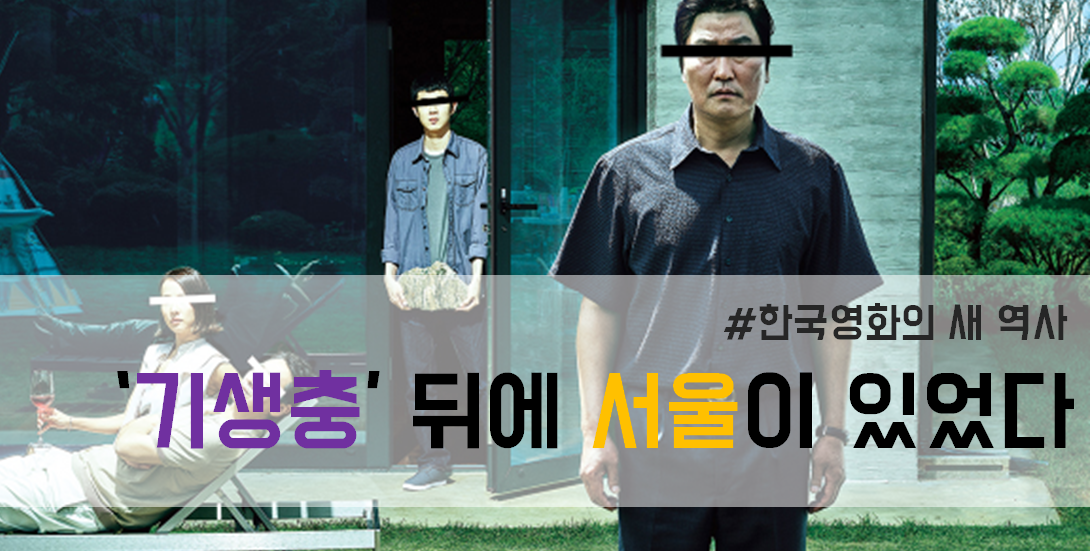
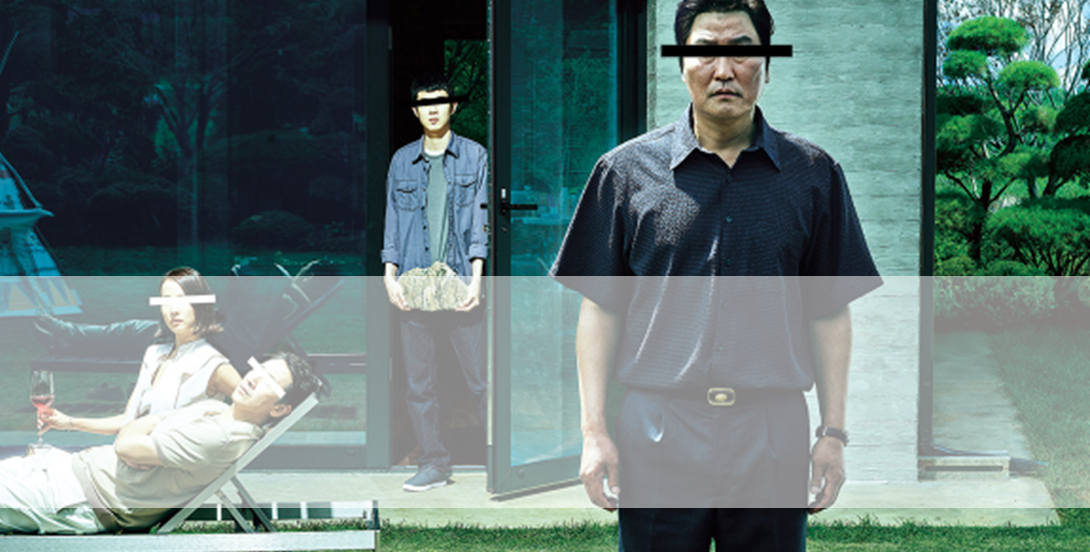
날씨, 번역 API 연동

Changed region(s): [[0.0936, 0.6788, 0.7486, 0.833], [0.7798, 0.6788, 0.9982, 0.833], [0.655, 0.5554, 0.9982, 0.6171]]

diff --git a/dasoni/dasoni/templates/index.html b/dasoni/dasoni/templates/index.html
@@ -281,32 +281,37 @@
   <div class="carousel-inner">
     <div class="carousel-item active">
         <img src="{% static "img/mainc1.png" %}" class="d-block w-100" >
-        <div class="carousel-caption"> 
-        <h3>What we Do</h3> 
+        <div class="carousel-caption caro"style="bottom: 3px; font-weight: 1000; color: black;">
+        <h6 class="text-right"># 한국영화의 새역사 &nbsp;&nbsp;</h6>
+        <h4><span style="color:purple;">'기생충'</span>뒤에 <span style="color:#ff9900;">서울</span>이 있었다.</h4>
         </div>
     </div>
     <div class="carousel-item">
         <img src="{% static "img/mainc1.png" %}" class="d-block w-100" >
-        <div class="carousel-caption"> 
-        <h3>What we Do</h3> 
+        <div class="carousel-caption caro"style="bottom: 3px; font-weight: 1000; color: black;">
+        <h6 class="text-right"># 한국영화의 새역사 &nbsp;&nbsp;</h6>
+        <h4><span style="color:purple;">'기생충'</span>뒤에 <span style="color:#ff9900;">서울</span>이 있었다.</h4>
         </div>
     </div>
     <div class="carousel-item">
       <img src="{% static "img/mainc1.png" %}" class="d-block w-100" >
-      <div class="carousel-caption"> 
-        <h3>What we Do</h3> 
+        <div class="carousel-caption caro"style="bottom: 3px; font-weight: 1000; color: black;">
+        <h6 class="text-right"># 한국영화의 새역사 &nbsp;&nbsp;</h6>
+        <h4><span style="color:purple;">'기생충'</span>뒤에 <span style="color:#ff9900;">서울</span>이 있었다.</h4>
         </div>
     </div>
   <div class="carousel-item">
       <img src="{% static "img/mainc1.png" %}" class="d-block w-100" >
-      <div class="carousel-caption"> 
-        <h3>What we Do</h3> 
+        <div class="carousel-caption caro"style="bottom: 3px; font-weight: 1000; color: black;">
+        <h6 class="text-right"># 한국영화의 새역사 &nbsp;&nbsp;</h6>
+        <h4><span style="color:purple;">'기생충'</span>뒤에 <span style="color:#ff9900;">서울</span>이 있었다.</h4>
         </div>
     </div>
   <div class="carousel-item">
       <img src="{% static "img/mainc1.png" %}" class="d-block w-100" >
-      <div class="carousel-caption"> 
-        <h3>What we Do</h3> 
+        <div class="carousel-caption caro"style="bottom: 3px; font-weight: 1000; color: black;">
+        <h6 class="text-right"># 한국영화의 새역사 &nbsp;&nbsp;</h6>
+        <h4><span style="color:purple;">'기생충'</span>뒤에 <span style="color:#ff9900;">서울</span>이 있었다.</h4>
         </div>
     </div>
   <a class="carousel-control-prev" href="#carouselExampleIndicators" role="button" data-slide="prev">
@@ -319,38 +324,67 @@
   </a>
 </div>
 <!--20200803 희정 캐러셀 끝-->
+<!--20200810 날씨, 번역 기능 시작-->
+<div class="weather">
+    <div class="row text-center weatherrow">
+    <div class="col" style="padding-left: 0px;">[날씨]</div>
+    <div class="col">[기온별 옷차림]</div>
+    <div class="col" style="padding-right: 0px;">[번역]</div>
+    </div>
+    <div class="mainweather text-center">
+    <div><img src="{% static "img/맑음.png" %}" width="50%">
+    <br>27도 맑음
+    </div>
+    <div><img src="{% static "img/나시티.png" %}" width="50%">
+    <br>나시티
+    </div>
+    <div><img src="{% static "img/반팔.png" %}" width="50%">
+    <br>반팔
+    </div>
+    <div><img src="{% static "img/반바지.png" %}" width="50%">
+    <br>반바지
+    </div>
+    <div><img src="{% static "img/원피스.png" %}" width="50%">
+    <br>원피스
+    </div>
+    <div><img src="{% static "img/trans.png" %}" width="50%"></div>
+    </div>
+</div>
+<!--20200810 날씨, 번역 기능 끝-->
+
+
 <div class="mainicon text-center">
-<div onClick="location.href ='http://URL주소'"><img src="{% static "img/mainlogo1.png" %}" width="50%">
+<div onClick="location.href ='http://URL주소'"><img src="{% static "img/mainlogo1.png" %}" width="45%">
 <p class="mainicontext">가수</p>
 </div>
-<div onClick="location.href ='http://URL주소'"><img src="{% static "img/mainlogo2.png" %}" width="50%">
+<div onClick="location.href ='http://URL주소'"><img src="{% static "img/mainlogo2.png" %}" width="45%">
 <p class="mainicontext">드라마/영화</p>
 </div>
-<div onClick="location.href ='http://URL주소'"><img src="{% static "img/mainlogo3.png" %}" width="50%">
+<div onClick="location.href ='http://URL주소'"><img src="{% static "img/mainlogo3.png" %}" width="45%">
 <p class="mainicontext">예능</p>
 </div>
 </div>
 
 <div class="mainicon text-center">
-<div onClick="location.href ='http://URL주소'"><img src="{% static "img/mainlogo4.png" %}" width="50%">
+<div onClick="location.href ='http://URL주소'"><img src="{% static "img/mainlogo4.png" %}" width="45%">
 <p class="mainicontext">투어 예약</p>
 </div>
-<div onClick="location.href ='{% url 'tothers:tourtip' %}'"><img src="{% static "img/mainlogo5.png" %}" width="50%">
+<div onClick="location.href ='{% url 'tothers:tourtip' %}'"><img src="{% static "img/mainlogo5.png" %}" width="45%">
 <p class="mainicontext">투어 팁</p>
 </div>
-<div onClick="location.href ='{% url 'tothers:goods' %}'"><img src="{% static "img/mainlogo6.png" %}" width="50%">
+<div onClick="location.href ='{% url 'tothers:goods' %}'"><img src="{% static "img/mainlogo6.png" %}" width="45%">
 <p class="mainicontext">굿즈</p>
 </div>
 </div>
 
 <div class="mainicon text-center">
-<div onClick="location.href ='http://URL주소'"><img src="{% static "img/mainlogo7.png" %}" width="50%">
+<div onClick="location.href ='http://URL주소'"><img src="{% static "img/mainlogo7.png" %}" width="45%">
 <p class="mainicontext">회사 소개</p>
 </div>
-<div onClick="location.href ='http://URL주소'"><img src="{% static "img/mainlogo8.png" %}" width="50%">
+<div onClick="location.href ='http://URL주소'"><img src="{% static "img/mainlogo8.png" %}" width="45%">
 <p class="mainicontext">스팟 랭킹</p>
 </div>
-<div onClick="location.href ='http://URL주소'"><img src="{% static "img/mainlogo9.png" %}" width="50%">
+<div onClick="location.href ='http://URL주소'"><img src="{% static "img/mainlogo9.png" %}" width="45%">
 <p class="mainicontext">여행 공유</p>
 </div>
 </div>

diff --git a/dasoni/tothers/templates/tothers/stamp.html b/dasoni/tothers/templates/tothers/stamp.html
@@ -110,26 +110,17 @@
                 <div class="col"><img src="{% static "img/방탄소년단2.jpg" %}" width="100%" height="100%" class="rounded-circle"></div>
                 <div class="col"><img src="{% static "img/방탄소년단3.jpg" %}" width="100%" height="100%" class="rounded-circle"></div>
                 <div class="col"><img src="{% static "img/방탄소년단4.jpg" %}" width="100%"  height="100%" class="rounded-circle"></div>
-                <div class="col"><img src="{% static "img/stampnull.png" %}" width="100%" height="100%" class="rounded-circle"></div>
+                <div class="col"><img src="{% static "img/무한도전2.jpg" %}" width="100%" height="100%" class="rounded-circle"></div>
                
             </div>    
             </div>
             <div class="container text-center">
             <div class="row row-cols-4">
-                <div class="col coltext"><span class="stamp2text">BTS</span></div>
-                <div class="col coltext"><span class="stamp2text">BTS</span></div>
-                <div class="col coltext"><span class="stamp2text">BTS</span></div>
-                <div class="col coltext"><span class="stamp2text">무한도전</span></div>
+                <div class="col coltext"><span class="stamp2text">BTS 양주일영역</span></div>
+                <div class="col coltext"><span class="stamp2text">BTS 춘천강촌역</span></div>
+                <div class="col coltext"><span class="stamp2text">BTS 향호해변</span></div>
+                <div class="col coltext"><span class="stamp2text">무한도전 통인시장</span></div>
                 
-            </div>    
-            </div>
-            <div class="container text-center">
-            <div class="row row-cols-4">
-                <div class="col coltext"><span class="stamp2text">양주일영역</span></div>
-                <div class="col coltext"><span class="stamp2text">춘천강촌역</span></div>
-                <div class="col coltext"><span class="stamp2text">향호해변</span></div>
-                <div class="col coltext"><span class="stamp2text">통인시장</span></div>
-  
             </div>    
             </div>
             <div class="container text-center">
@@ -141,12 +132,13 @@
   
             </div>    
             </div>
+            
 
             <div class="container text-center">
             <div class="row row-cols-4">
-                <div class="col"><img src="{% static "img/방탄소년단.jpg" %}" width="100%" height="100%" class="rounded-circle"></div>
-                <div class="col"><img src="{% static "img/stampnull.png" %}" width="100%" height="100%" class="rounded-circle"></div>
-                <div class="col"><img src="{% static "img/stampnull.png" %}" width="100%" height="100%" class="rounded-circle"></div>
+                <div class="col"><img src="{% static "img/무한도전3.jpg" %}" width="100%" height="100%" class="rounded-circle"></div>
+                <div class="col"><img src="{% static "img/무한도전4.jpg" %}" width="100%" height="100%" class="rounded-circle"></div>
+                <div class="col"><img src="{% static "img/경복궁1.jpg" %}" width="100%" height="100%" class="rounded-circle"></div>
                 <div class="col"><img src="{% static "img/stampnull.png" %}" width="100%" height="100%" class="rounded-circle"></div>
                
             </div>    
@@ -155,7 +147,7 @@
             <div class="row row-cols-4">
                 <div class="col coltext"><span class="stamp2text">무한도전 덕수궁</span></div>
                 <div class="col coltext"><span class="stamp2text">무한도전 한옥마을</span></div>
-                <div class="col coltext"><span class="stamp2text"></span></div>
+                <div class="col coltext"><span class="stamp2text">궁투어 경복궁</span></div>
                 <div class="col coltext"><span class="stamp2text"></span></div>
                 
             </div>    
@@ -164,7 +156,7 @@
             <div class="row row-cols-4">
                 <div class="col coltext"><span class="stamp2text">20.07.08</span></div>
                 <div class="col coltext"><span class="stamp2text">20.07.08</span></div>
-                <div class="col coltext"><span class="stamp2text"></span></div>
+                <div class="col coltext"><span class="stamp2text">20.07.09</span></div>
                 <div class="col coltext"><span class="stamp2text"></span></div>
   
             </div>    

diff --git a/dasoni/dasoni/static/css/main.css b/dasoni/dasoni/static/css/main.css
@@ -3,15 +3,18 @@
 @font-face { font-family: 'MapoPeacefull'; src: url('https://cdn.jsdelivr.net/gh/projectnoonnu/noonfonts_2001@1.1/MapoPeacefullA.woff') format('woff'); font-weight: normal; font-style: normal; }    
 
 body{
-    font-family: 'MapoPeacefull'; 
+    font-family: 'MapoPeacefull';
+     
 }
 .carousel-content { 
 position: absolute; 
-bottom: 10%;  
+bottom: 10%;
 left: 5%;  
-z-index: 20;  
-color: white;  
-text-shadow: 0 1px 2px rgba(0,0,0,.6); 
+z-index: 10;  
+color: black;
+font-weight: 900;
+text-shadow: 0 1px 2px rgba(0,0,0,.6);
+
 }
 
 .footer {
@@ -26,8 +29,8 @@ width:20%
 .mainicon{
 display:flex;
 flex-direction:row;
-padding-top: 5%;
-padding-bottom:5%;
+padding-top: 3%;
+padding-bottom:3%;
 padding-left:10%;
 padding-right:10%;
 }
@@ -38,7 +41,7 @@ width:33.33%
 
 .mainicontext{
 padding-top:5%;
-font-size: 125%;
+font-size: 105%;
 font-weight: bold;
 }
 
@@ -102,7 +105,7 @@ font-weight: bold;
 
 }
 .stamp1text{
-    font-size: 0.8rem;
+    font-size: 0.75rem;
     font-weight: bold;
 }
 }
@@ -128,13 +131,49 @@ font-weight: bold;
 
 }
 .stamp2text{
-    font-size: 0.65rem;
+    font-size: 0.6rem;
     font-weight: bold;
 }
 
 .coltext{
     padding-left: 0px;
     padding-right: 0px; 
+}
+@font-face {
+    font-family: 'ImcreSoojin';
+    src: url('https://cdn.jsdelivr.net/gh/projectnoonnu/noonfonts_20-04@2.3/ImcreSoojin.woff') format('woff');
+    font-weight: normal;
+    font-style: normal;
+}
+.caro{    
+    font-family: 'ImcreSoojin';
+}
+
+.mainweather{
+    display:flex;
+    flex-direction:row;   
+    padding-left:3%;
+    font-size: 0.7rem;
+    
+}
+
+.mainweather div{
+    width:16%
+}
+
+.weatherrow{
+    padding-bottom: 1%;
+    font-family: 'ImcreSoojin';
+    font-size: 0.9rem;
+    font-family: 'MapoPeacefull';
+}
+
+.weather{
+    margin-top: 4%;
+    padding-top: 1%;
+    margin-bottom: 4%;
+    padding-bottom: 1%;
+    background-color: whitesmoke;
 }
 @media all and (min-width:768px){
 body{
